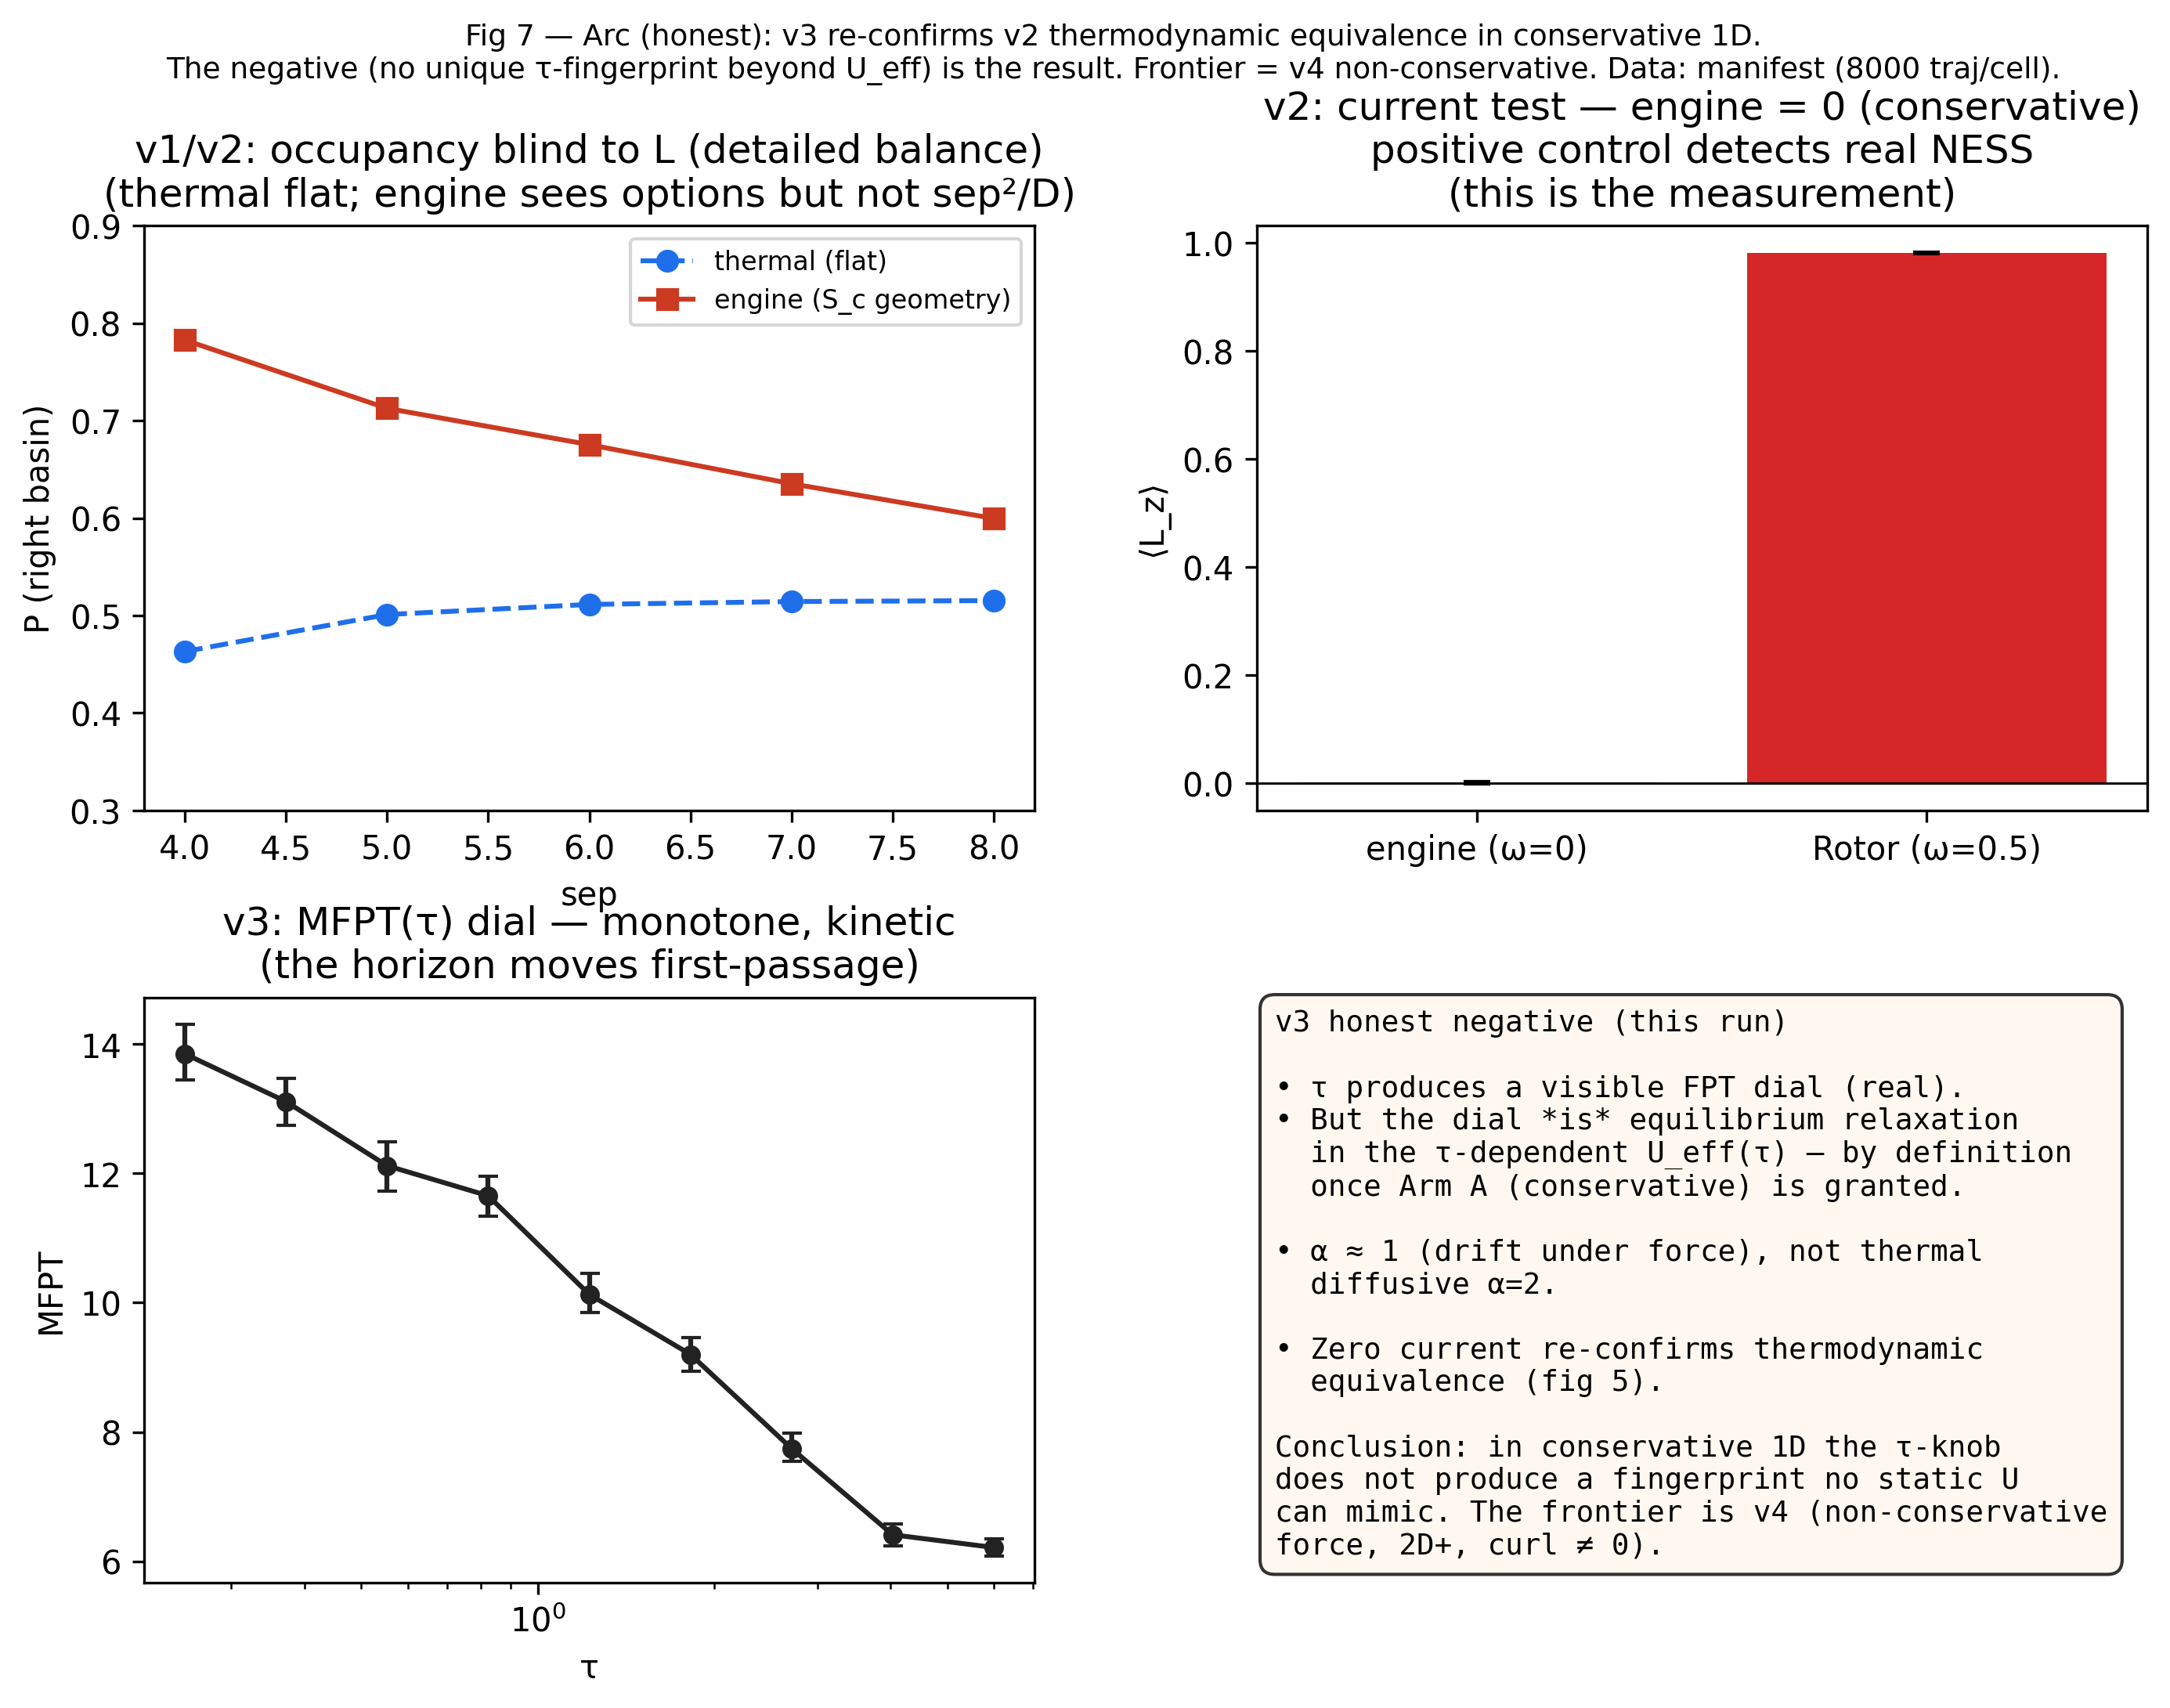
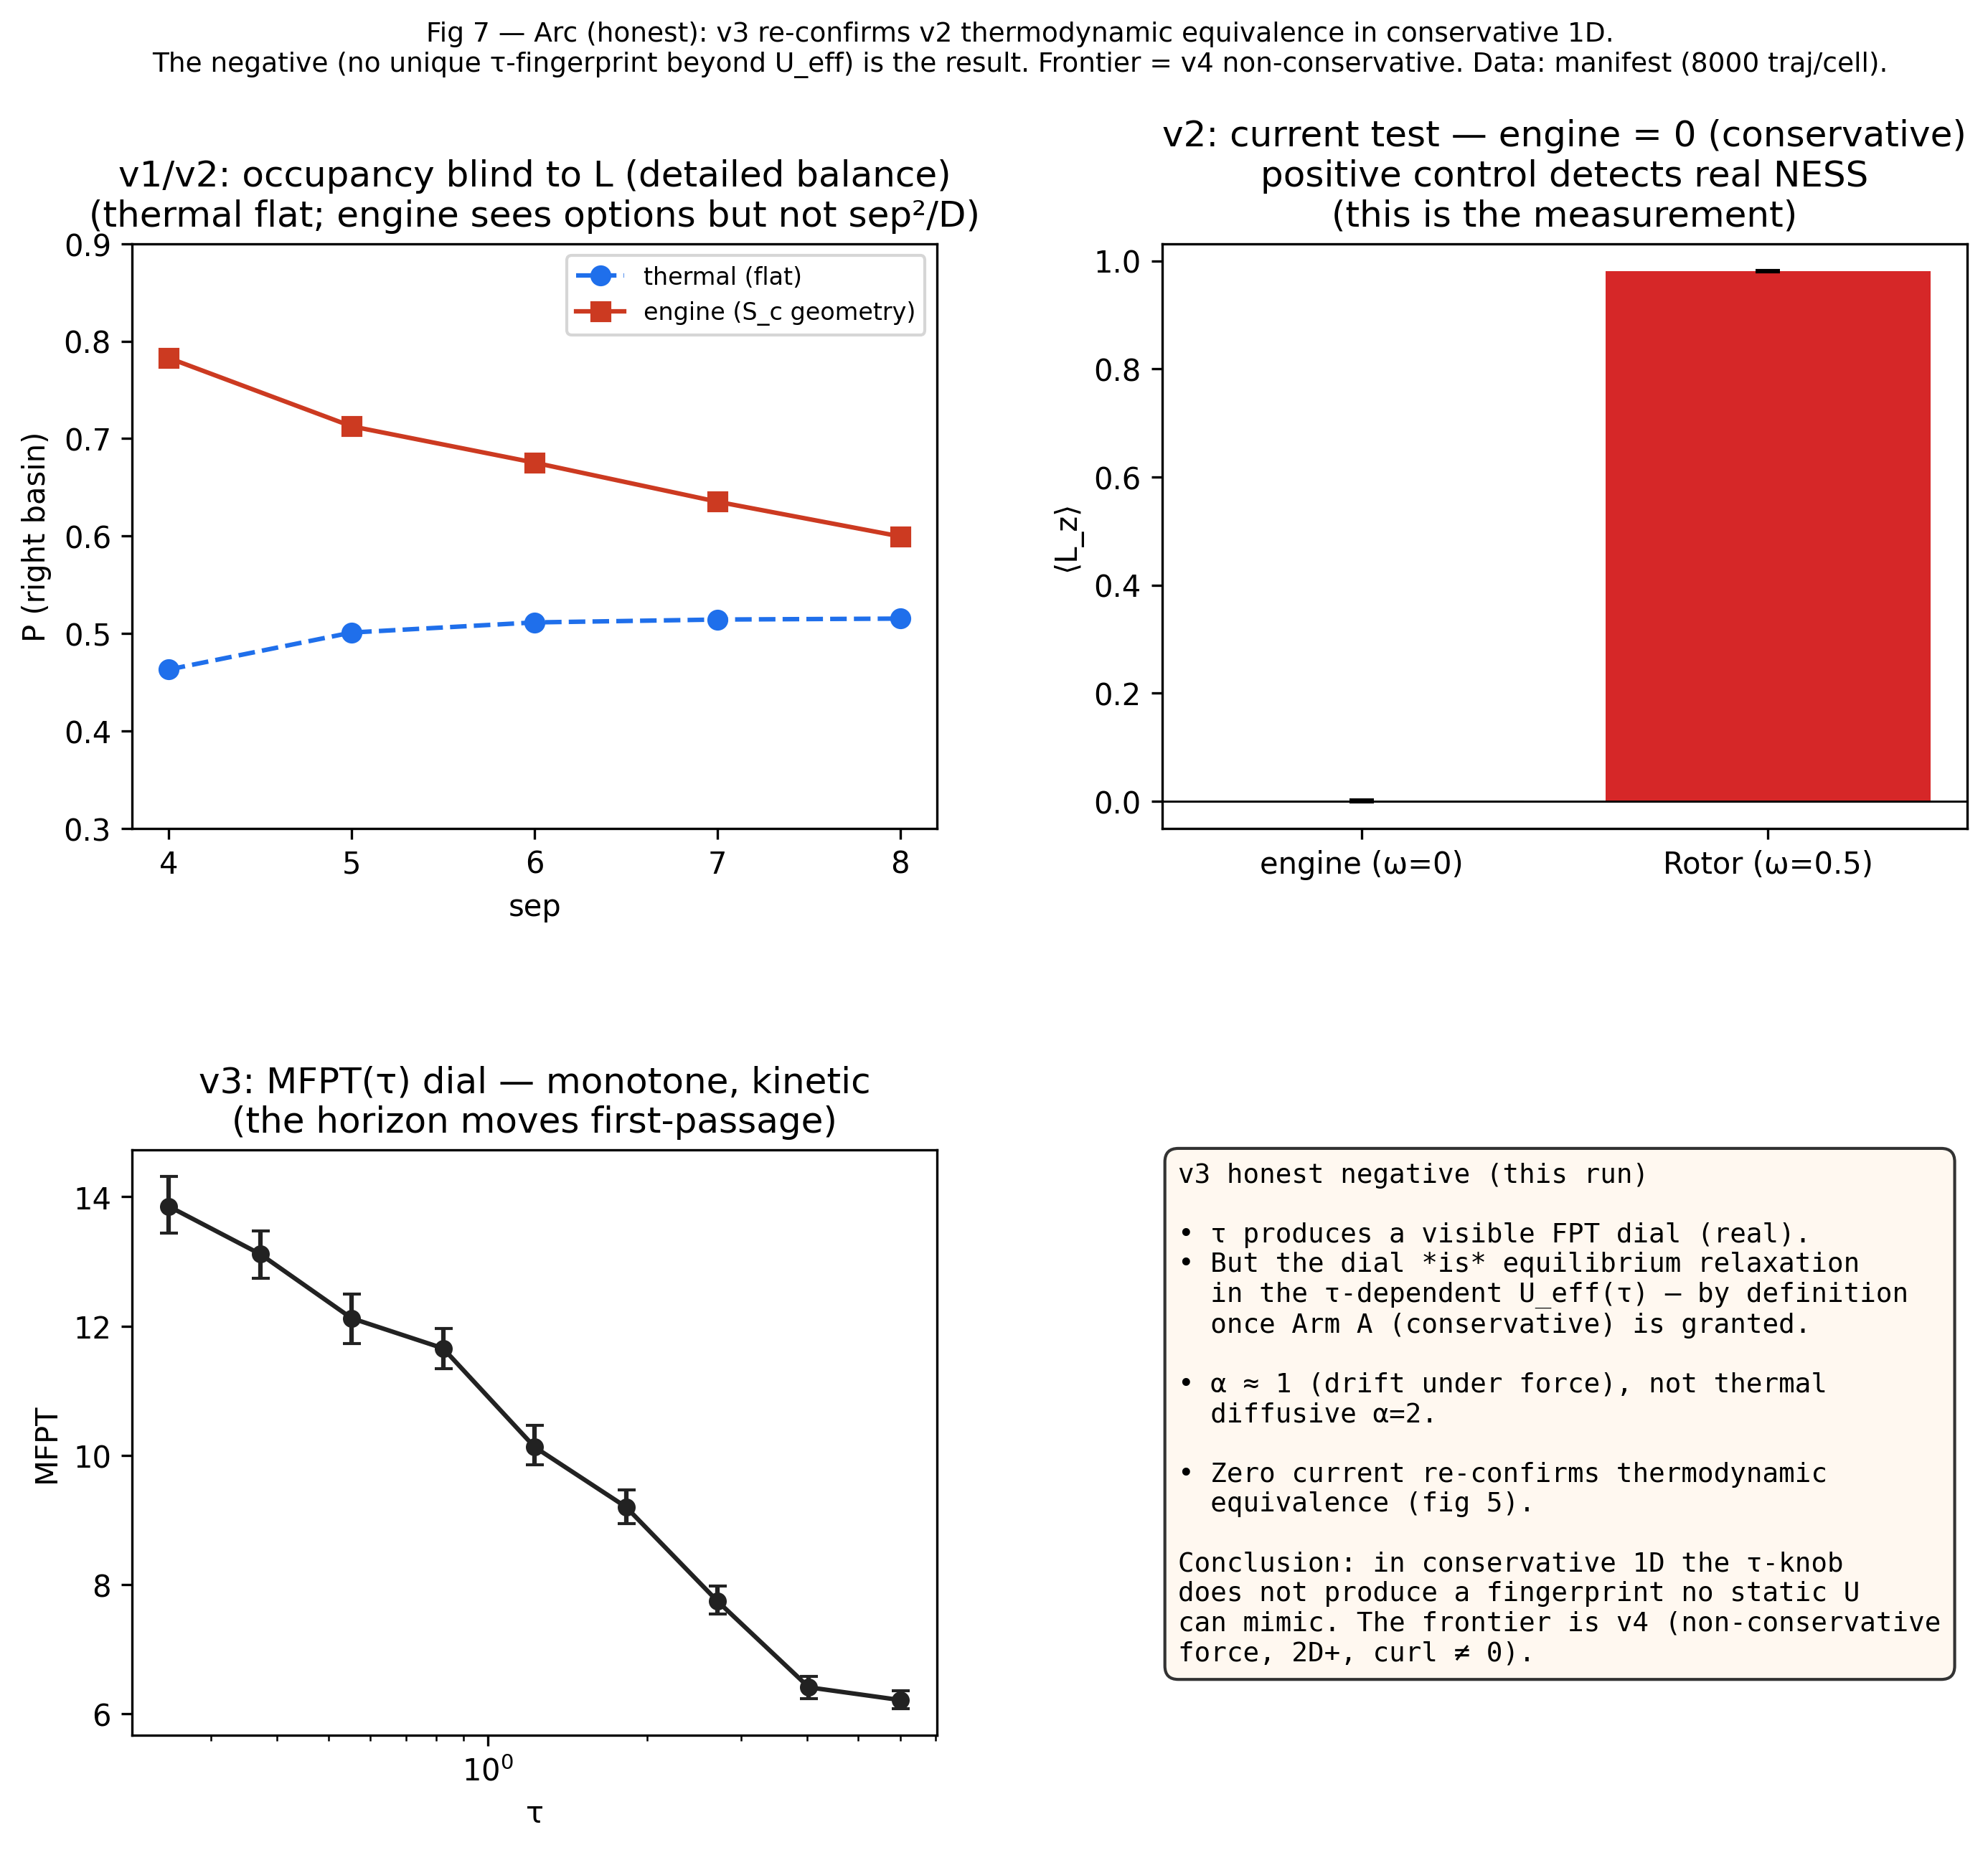
fix(v3): fig7 layout — widen row spacing so xlabel/title no longer collide
Bumped figsize 7.5→9.0 height and hspace 0.32→0.55 so the top-left panel's "sep"
xlabel no longer overlaps the bottom-left "MFPT(τ) dial" title. Content unchanged
(same artifact-loaded data); cosmetic only.

Claude-Session: https://claude.ai/code/session_01RcJuzG46rtebvbUQaxuBqx

diff --git a/src/v3_figures.py b/src/v3_figures.py
@@ -317,8 +317,8 @@ def fig7_arc(d):
     eng = d["partD_current_engine"]
     ctrl = d["partD_current_control"]
 
-    fig = plt.figure(figsize=(11, 7.5))
-    gs = fig.add_gridspec(2, 2, hspace=0.32, wspace=0.25)
+    fig = plt.figure(figsize=(11, 9.0))
+    gs = fig.add_gridspec(2, 2, hspace=0.55, wspace=0.28)
 
     # v1/v2 occupancy panel — loaded from the committed v2 artifact (not literals)
     v2_path = "results/v2_firstpassage.npz"